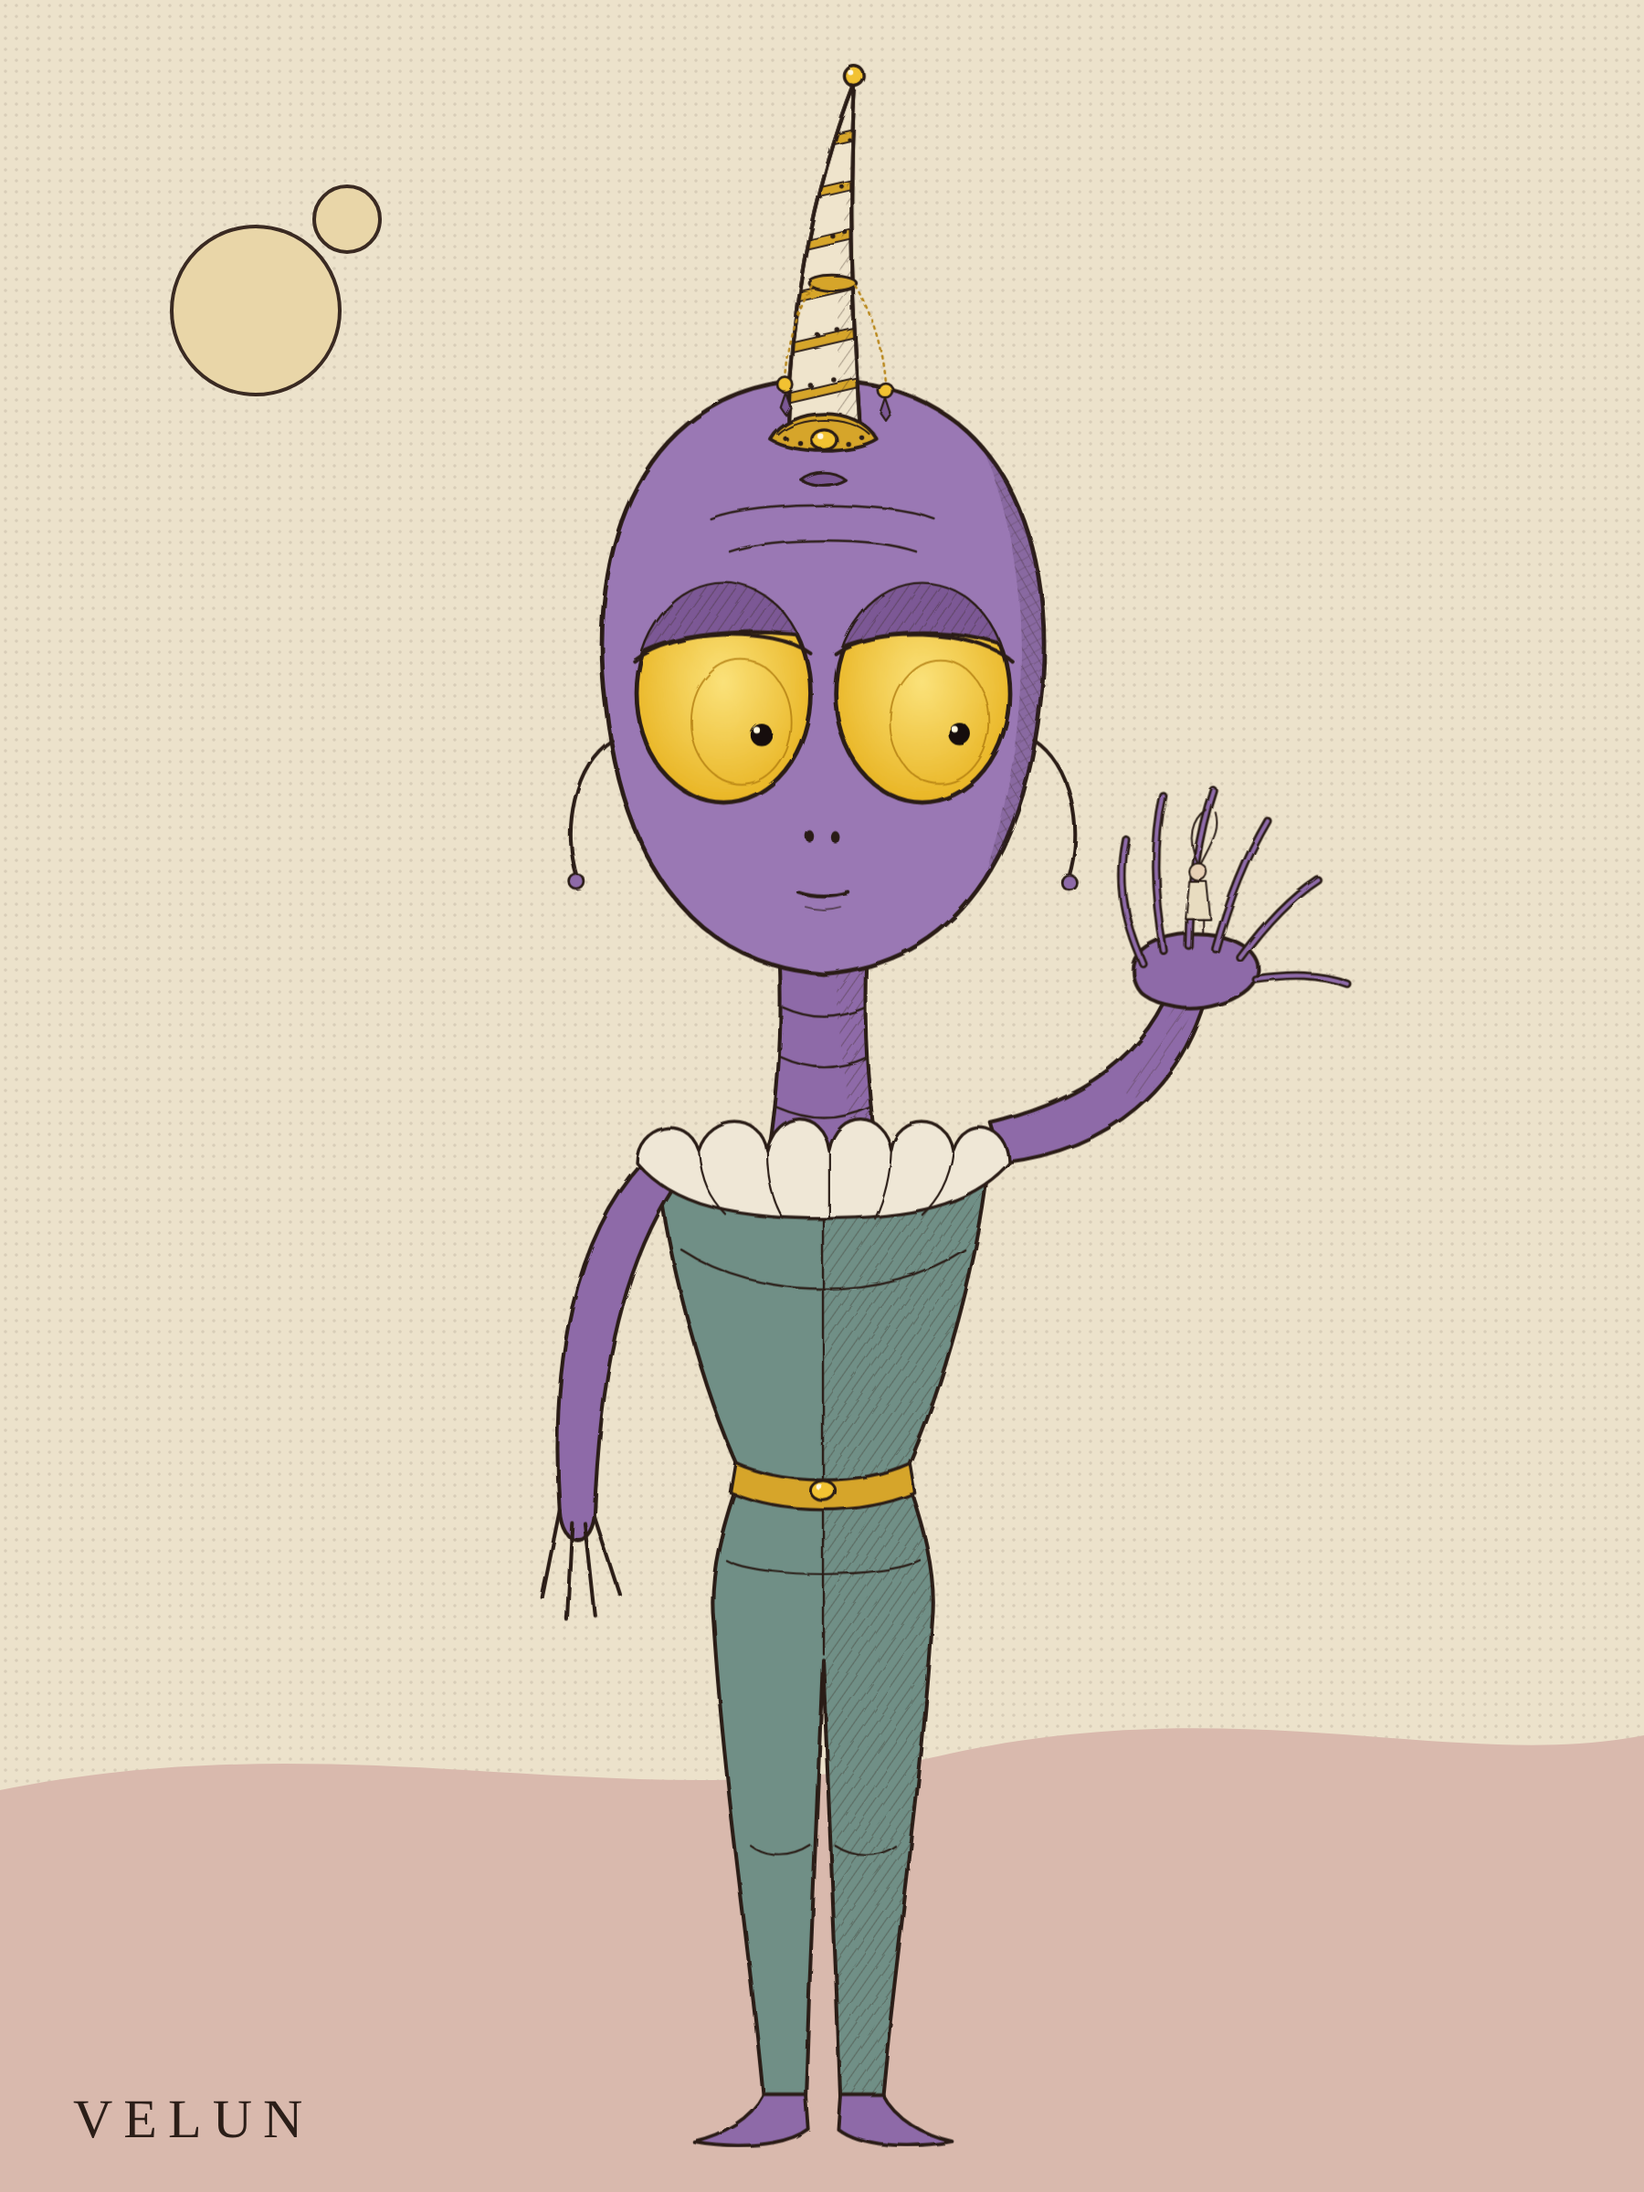
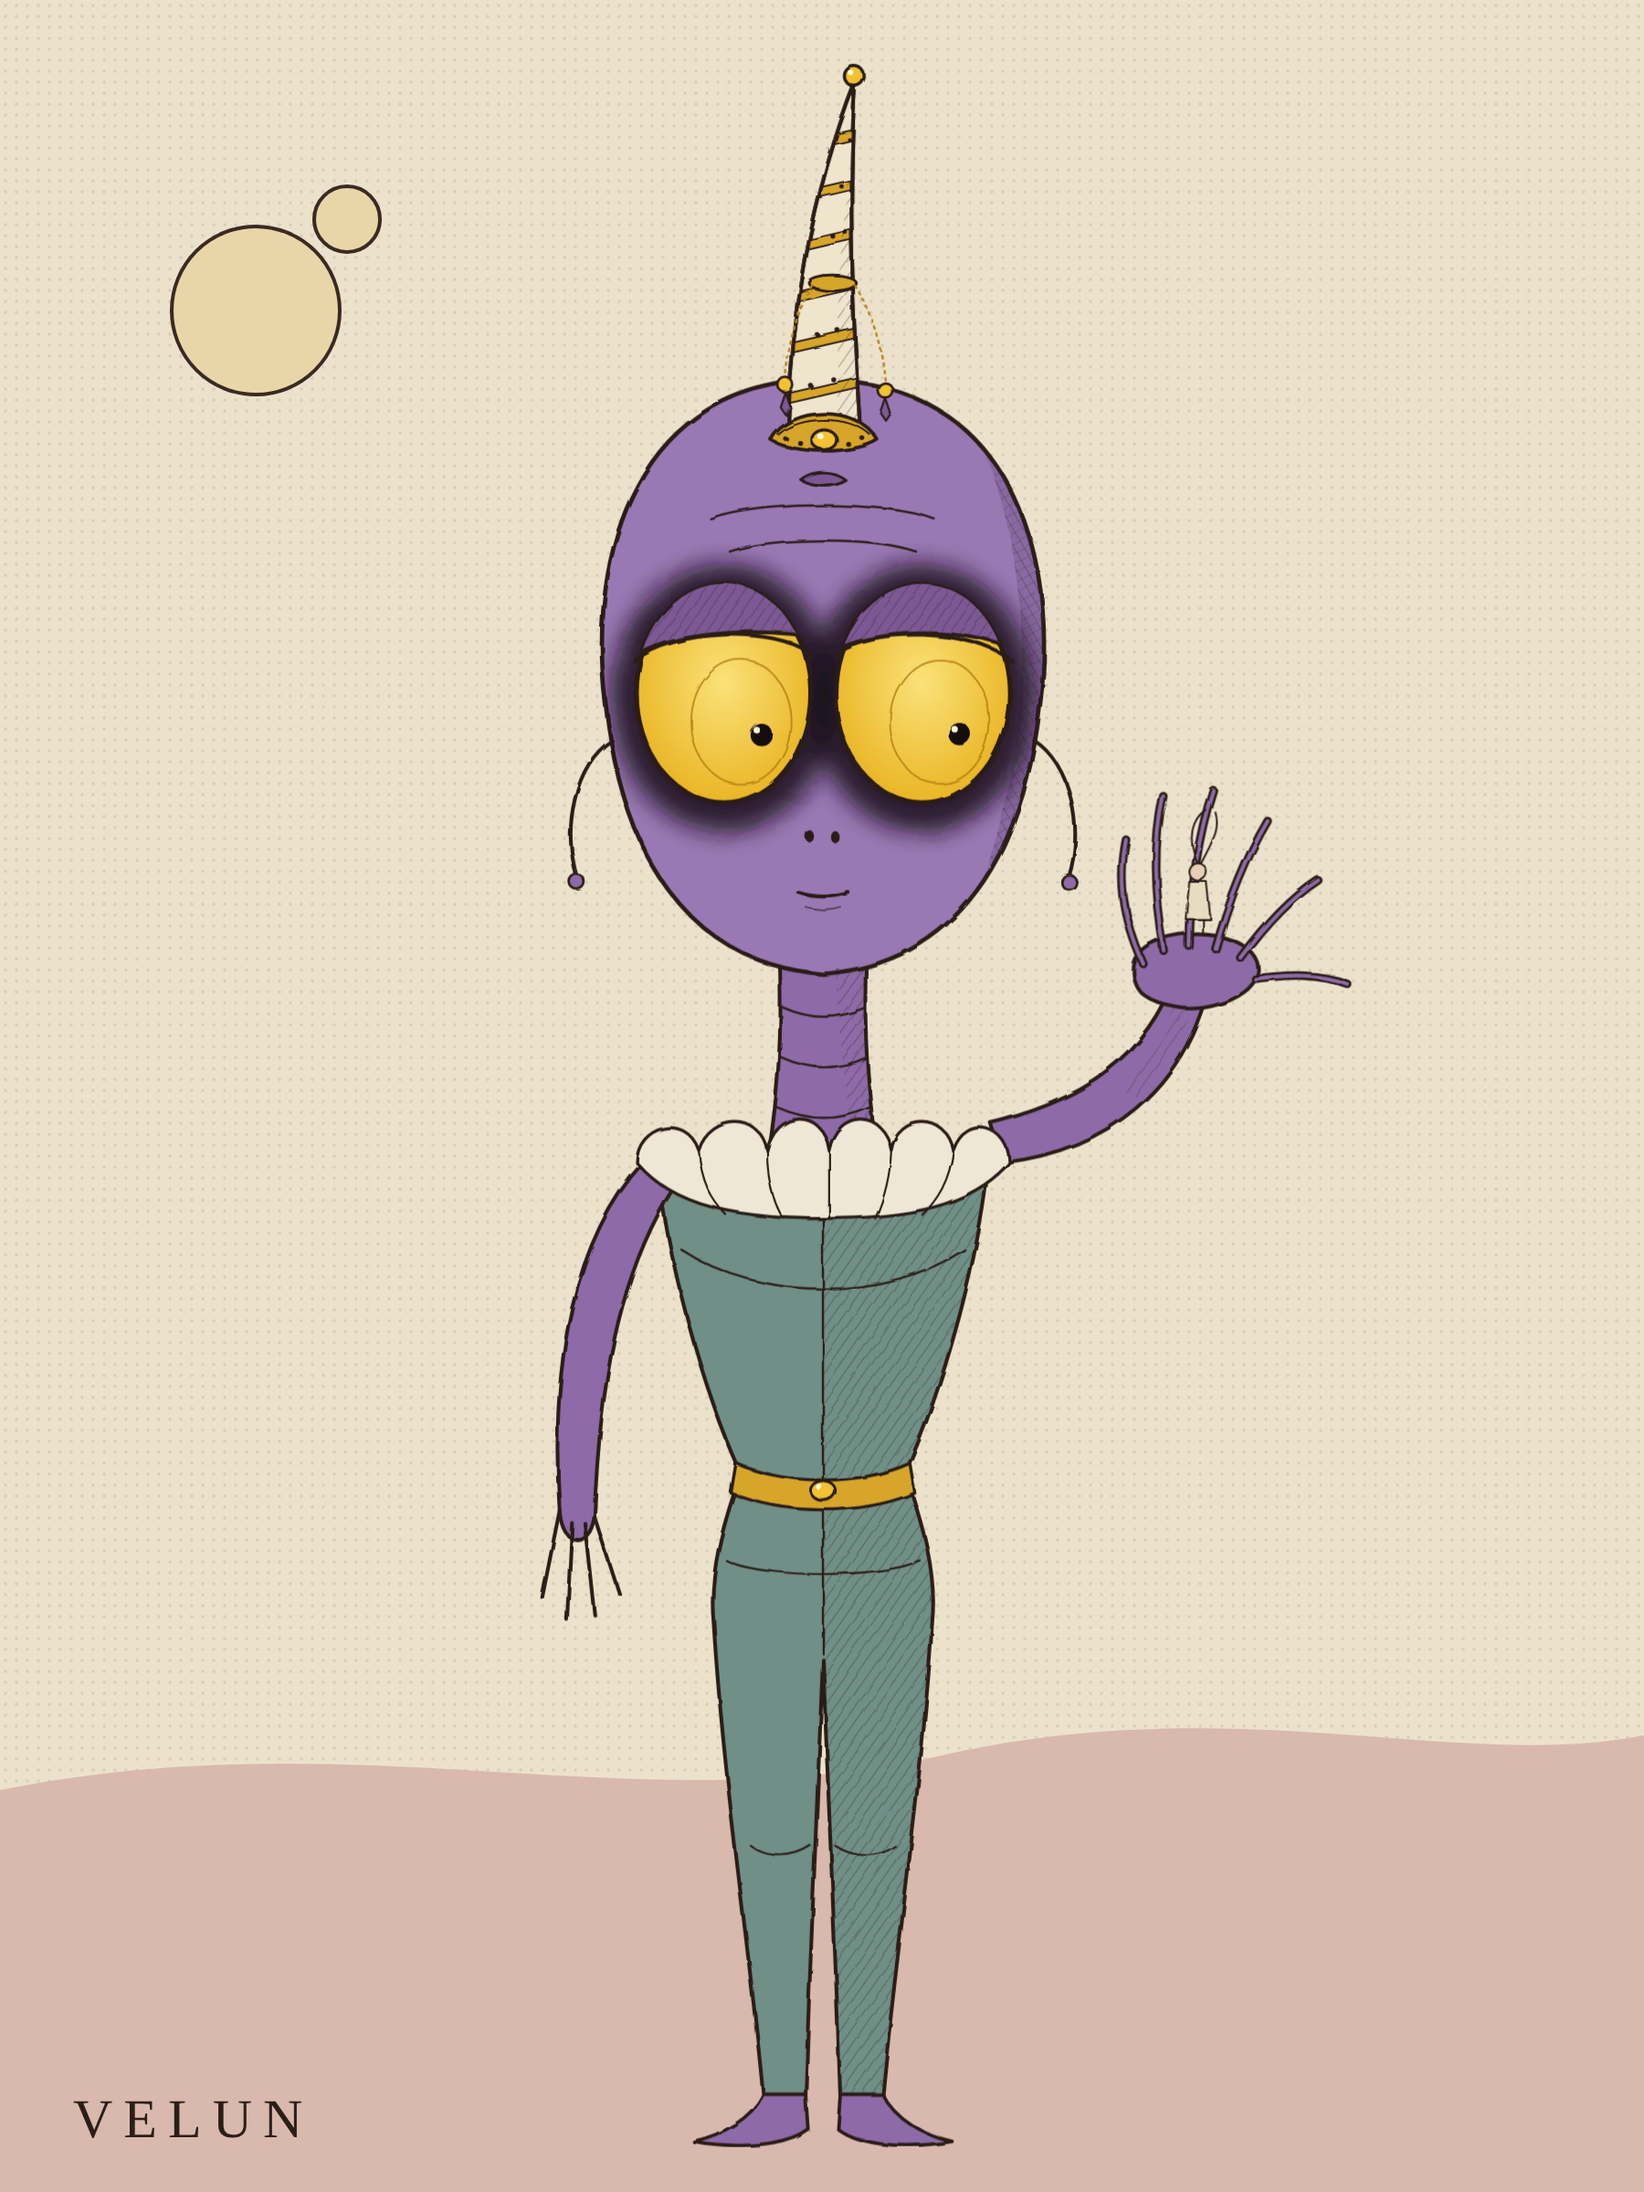
Velun: add smoky dark rings around eyes (character + world)
Claude-Session: https://claude.ai/code/session_014pgZYAt28U3JpX5acrECz9

Changed region(s): [[0.3733, 0.25, 0.6533, 0.4062]]

diff --git a/karakterler/dunya_olustur.py b/karakterler/dunya_olustur.py
@@ -18,6 +18,7 @@ o('''<defs>
   </filter>
   <filter id="wobble"><feTurbulence type="turbulence" baseFrequency="0.02" numOctaves="2" seed="7" result="t"/><feDisplacementMap in="SourceGraphic" in2="t" scale="3"/></filter>
   <filter id="blur"><feGaussianBlur stdDeviation="14"/></filter>
+  <filter id="smoke" x="-30%" y="-30%" width="160%" height="160%"><feGaussianBlur stdDeviation="4"/></filter>
   <pattern id="hatch" width="7" height="7" patternUnits="userSpaceOnUse" patternTransform="rotate(35)"><line x1="0" y1="0" x2="0" y2="7" stroke="#3a2a22" stroke-width="1.1" opacity="0.5"/></pattern>
   <pattern id="dots" width="6" height="6" patternUnits="userSpaceOnUse"><circle cx="3" cy="3" r="0.9" fill="#3a2a22" opacity="0.4"/></pattern>
   <pattern id="pores" width="26" height="22" patternUnits="userSpaceOnUse"><circle cx="6" cy="6" r="1.6" fill="#2f6b62" opacity="0.4"/><circle cx="19" cy="15" r="1.2" fill="#2f6b62" opacity="0.35"/></pattern>
@@ -346,6 +347,7 @@ o('''<g opacity="0.82" stroke-width="3">
   <path d="M652 1030 C624 1036 606 1050 594 1066" fill="none" stroke-width="5"/>
   <path d="M786 920 C786 900 790 880 792 860 L808 860 C810 880 814 900 814 920 Z" fill="#9a7ab3"/>
   <ellipse cx="800" cy="770" rx="78" ry="98" fill="#9a7ab3"/>
+  <g filter="url(#smoke)" stroke="none"><ellipse cx="772" cy="778" rx="34" ry="39" fill="#140c18" opacity="0.85"/><ellipse cx="828" cy="778" rx="34" ry="39" fill="#140c18" opacity="0.85"/></g>
   <ellipse cx="772" cy="776" rx="26" ry="30" fill="#f2c230"/><ellipse cx="828" cy="776" rx="26" ry="30" fill="#f2c230"/>
   <circle cx="766" cy="790" r="5" fill="#120c08" stroke="none"/><circle cx="822" cy="790" r="5" fill="#120c08" stroke="none"/>
   <path d="M744 760 C760 744 790 744 800 760 M800 760 C810 744 840 744 856 760" fill="#8a69a3" stroke-width="2.4"/>
